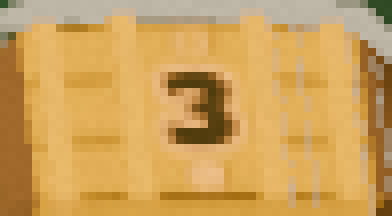
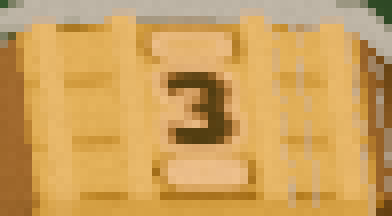
Redraw the Powder Keg Twin ticks clear of the 3.
Cell 2 is two marks in the gutters: a hollow tick above the 3 and a solid tick with a pip hole below it. Each is 13 by 29 texels. The halo ring is the ink keyline, and nothing sits on the printed numeral or the seams.

diff --git a/docs/AI_CONTENT_LOG.md b/docs/AI_CONTENT_LOG.md
@@ -83,7 +83,7 @@ VFX Dev = FX textures and shaders, Game Designer = text. Sources are in brackets
 | `art/models/dice/shaders/toon_mirror.gdshader` | **AI-assisted:** shader code written by Grok Bot agents | Mirror Die toon shader. [VFX Dev, git check 2026-10-19] | 2026-10-18 | VFX Dev |
 | `shaders/3d/toon_noir_twin.gdshader`, `shaders/3d/twin_face_mask.gdshaderinc` | **AI-assisted:** shader code written by Grok Bot VFX Dev agent | Twin Face glow mask: toon_noir variant + include (Powder Keg Ember glyph; up+settled gate). `toon_noir.gdshader` untouched. [VFX Dev / PR #113] | 2026-10-19 | VFX Dev |
 | `art/fx/twin_face/twin_face_mask_standin.png` | **AI-assisted (agent-written script):** Python + Pillow stand-in generated by the VFX Dev agent; not final art (3D Artist ships the real mask after batch-3) | Stand-in UV1 mask (R=hard glyph, G=soft halo) for Twin Face tests and captures. [art/fx/twin_face/README.md; VFX Dev / PR #113] | 2026-10-19 | VFX Dev |
-| `art/fx/twin_face/powder_keg_twin_mask.png` | **AI-assisted (agent-written script):** Art Director handoff, regenerator `make_twin_mask.py` (make_faces-style, read-only against the repo). See `art/fx/twin_face/powder_keg_twin_SPEC.md` | Shipped Twin Face UV1 mask for the Powder Keg 3s. 1024 RGBA, R = hard glyph, G = halo (0 inside R), B = 0, A = 255, marks in cell 2 only. Weights, not a coloured texture. | 2026-11-12 | Art Director |
+| `art/fx/twin_face/powder_keg_twin_mask.png` | **AI-assisted (agent-written script):** Art Director handoff, regenerator `make_twin_mask.py` (make_faces-style). Cell 2 was redrawn in Python/Pillow on 2026-11-13 (no generative image model) so the two ticks sit in the gutters, clear of the 3. See `art/fx/twin_face/powder_keg_twin_SPEC.md` | Shipped Twin Face UV1 mask for the Powder Keg 3s. 1024 RGBA, R = hard glyph, G = halo (0 inside R), B = 0, A = 255, marks in cell 2 only. Weights, not a coloured texture. The redraw keeps a hollow tick above the 3 and a solid tick with a pip hole below it (atlas +X is up in rest pose), each about 13×29 texels, with a G ring for the ink keyline. | 2026-11-12, redrawn 2026-11-13 | Art Director |
 | `assets/vfx/trigger_fx/icons/` (8 PNGs: `icon_mirror_copy`, `icon_gilded_payout`, `icon_coin_heads_copy`, `icon_coin_tails_copy`, `icon_coin_alone_heads`, `icon_hellfire_face`, `icon_wild_face`, `icon_generic`) | **AI-assisted (agent-written script):** Art Director's code-generated art (SVG/Pillow sheet); no AI image generation. Copied into the repo for the trigger FX rows. | Baked 128 px icon discs (glyph + rim studs) shown at 32 px @720p on trigger hit. [team art folder `art/vfx/trigger_fx/`; VFX Dev / PR #105] | 2026-10-19 | Art Director |
 | `assets/vfx/trigger_fx/shapes/` (20 PNGs: `ring_pulse_soft`, `radial_glow_soft`, `glint_streak`, `spark_dot_soft`, `coin_brass_{face,tilt,edge}`, `chip_x{1_5,2,3}`, plus fill/outline pairs for `frame_square`, `frame_hex`, `needles_radial`, `shine_bar`, `spark_diamond`) | **AI-assisted (agent-written script):** Art Director's code-generated art (SVG/Pillow); no AI image generation. Soft shapes tinted at runtime; hard shapes keep a fixed oxblood outline. | Trigger FX cards, glints, sparks, brass coin frames and multiplier chips. [team art folder `art/vfx/trigger_fx/`; VFX Dev / PR #105] | 2026-10-19 | Art Director |
 | `tools/capture_trigger_fx.gd` | **AI-assisted:** capture tool written by the Grok Bot VFX Dev agent | Headless/Vulkan strip captures of the four first trigger FX rows for QA / Art Director review. Excluded from export (`tests/*`, `tools/*`). [VFX Dev / PR #105] | 2026-10-19 | VFX Dev |
